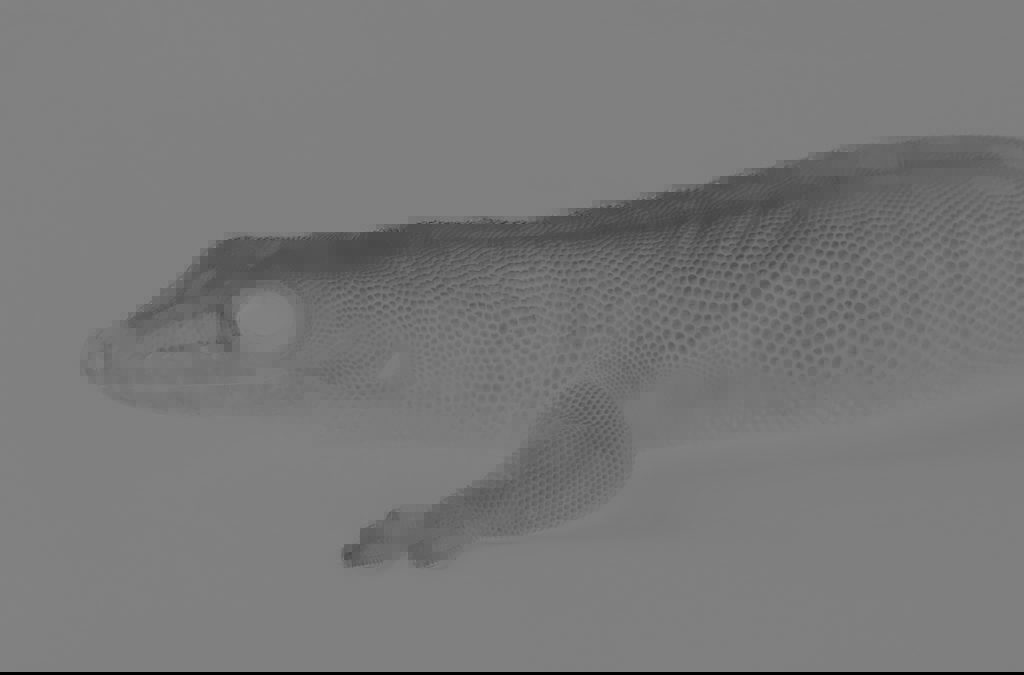
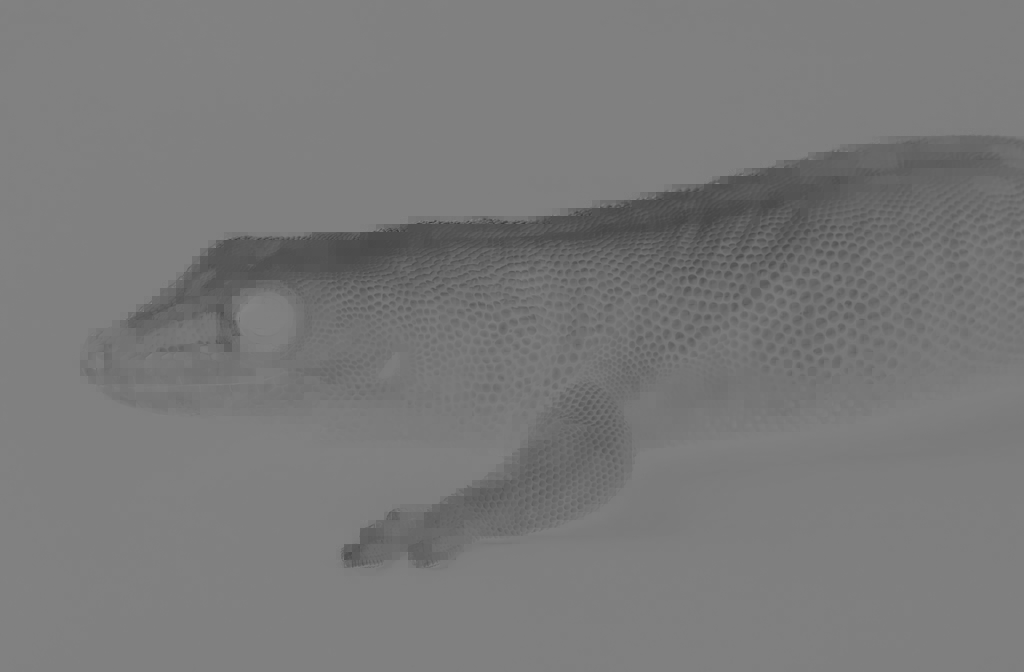
Show Chroma - CfL

Changed region(s): [[0.0, 0.9688, 1.0, 1.0]]

diff --git a/cfl/gain/experiment.m b/cfl/gain/experiment.m
@@ -70,11 +70,14 @@ for y = 1:block_size:h-bm1
   end
 end
 
-subplot(3,1,1); imshow(uint8(y_img)); title('Luma');
-subplot(3,1,2); imshow(uint8(c_img)); title('Chroma');
-subplot(3,1,3); imshow(uint8(cfl)); title('CfL');
+cfl_err = 127 + (c_img - cfl);
+subplot(2,2,1); imshow(uint8(y_img)); title('Luma');
+subplot(2,2,2); imshow(uint8(c_img)); title('Chroma');
+subplot(2,2,3); imshow(uint8(cfl)); title('CfL');
+subplot(2,2,4); imshow(uint8(cfl_err)); title('Chroma - CfL');
 
 sse = sum((c_img(:) - cfl(:)).^2)
 psnr = 20 * log10(255) - 10 * log10(sse/(num_pix))
 
 imwrite(uint8(cfl), 'cfl.png');
+imwrite(uint8(cfl_err), 'cfl_err.png');
